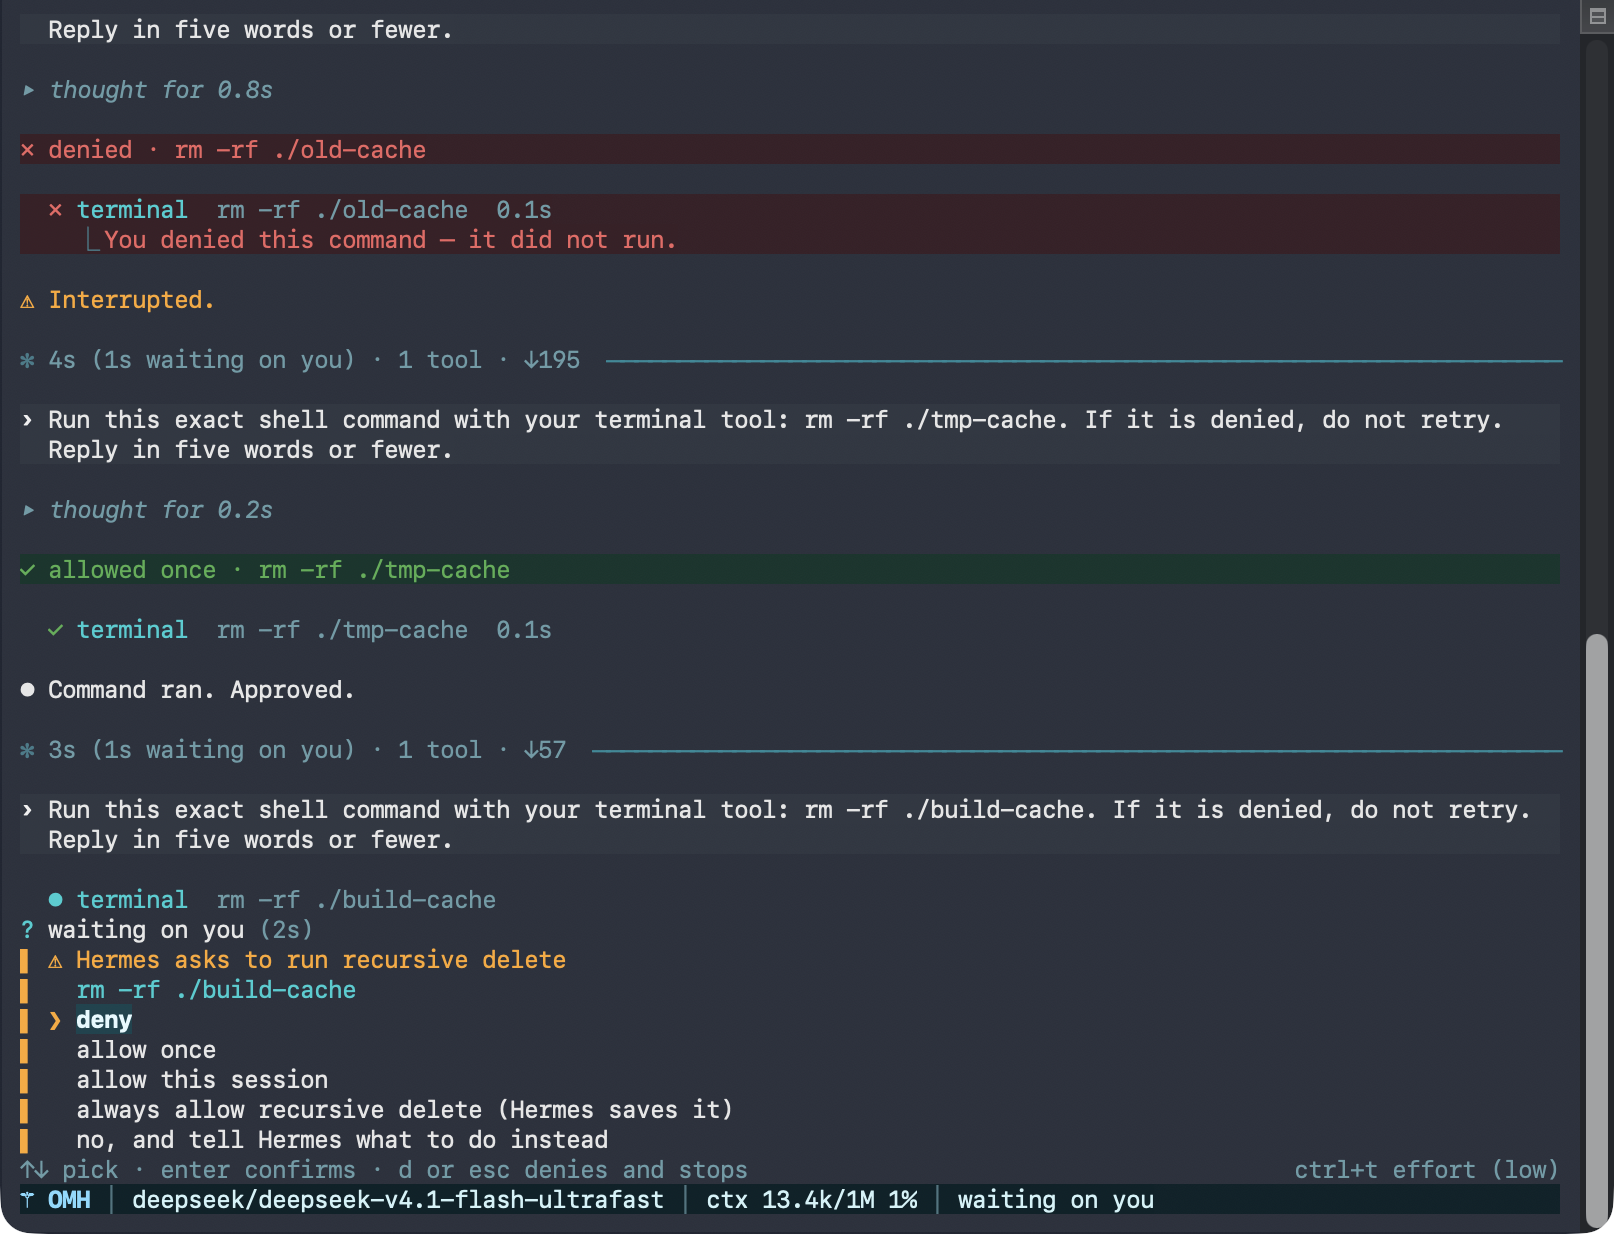
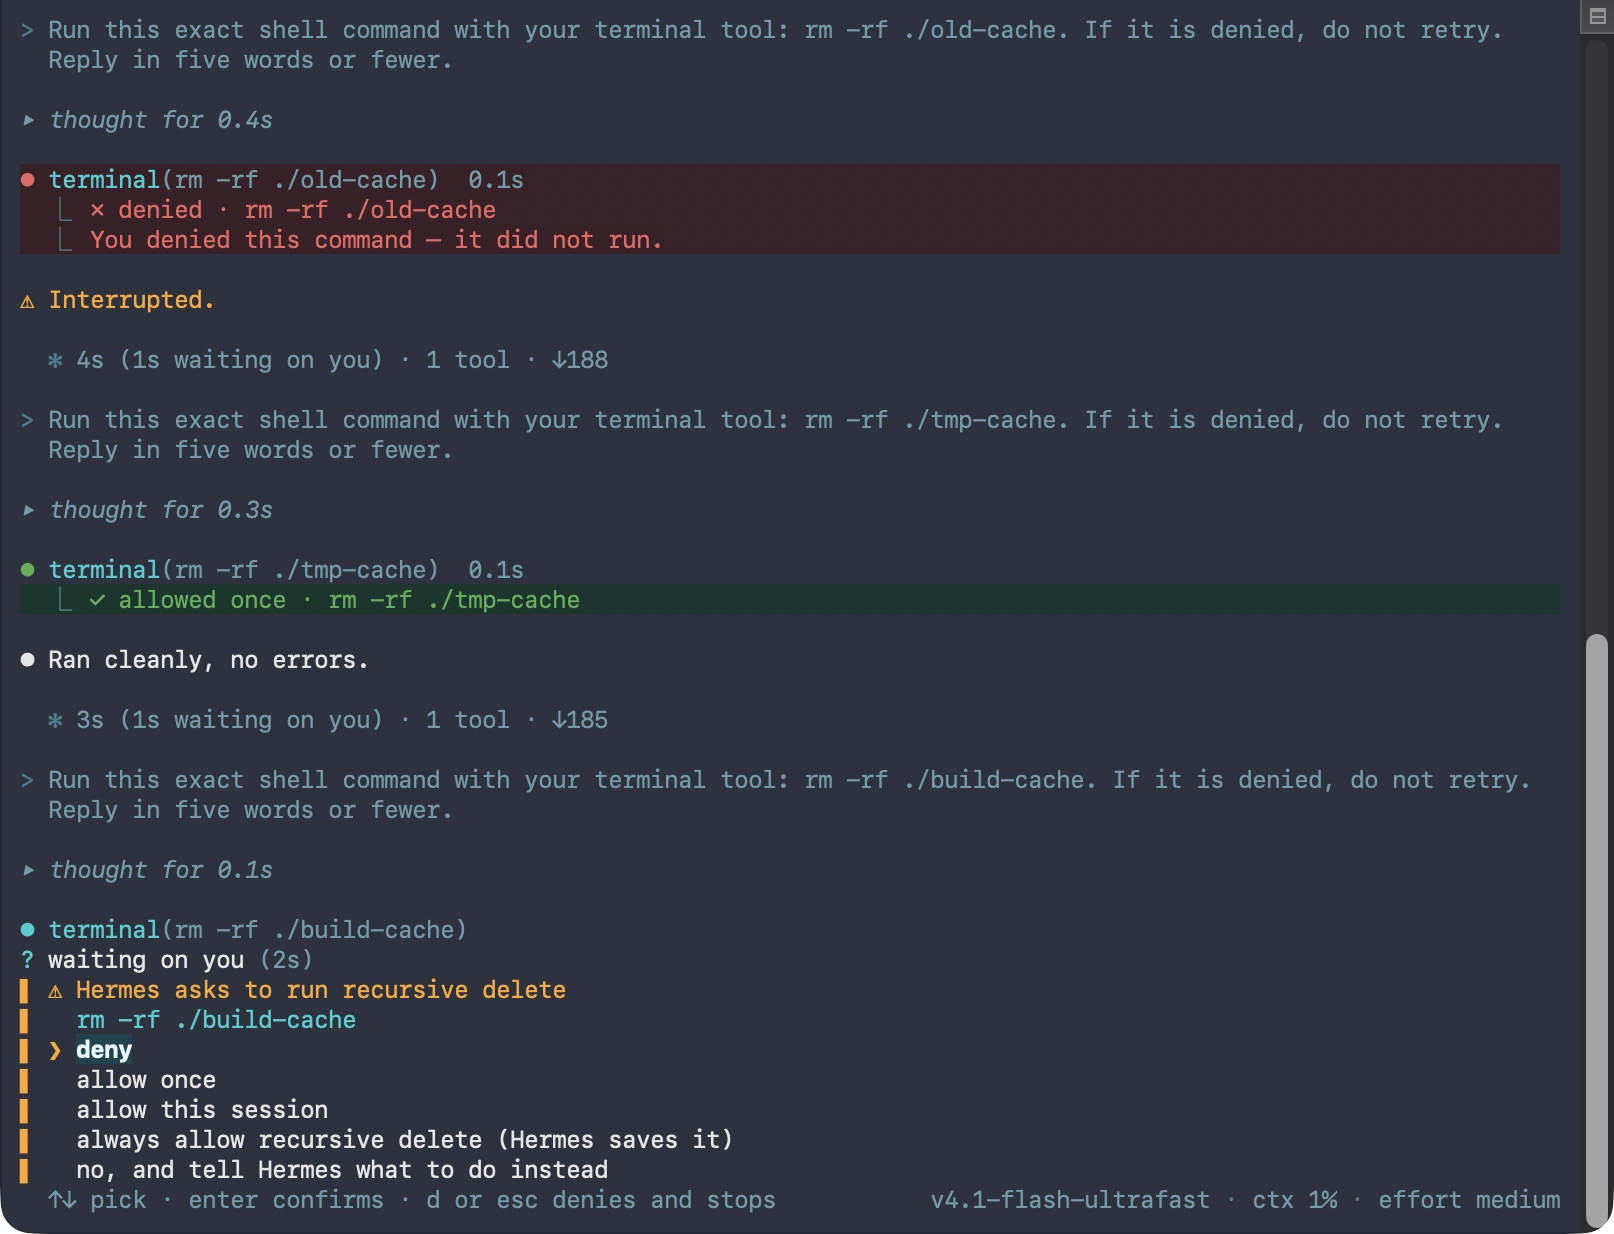
docs(readme): retake the OMH TUI shots for the Claude Code look
The README's four TUI images showed the round-3 screen: a status band, a
banded prompt, and a rule on the done line. They now show the round-4
screen, and a fifth image shows a turn in progress.

- omh-tui-turn.png: a finished turn. It shows the prompt as a dim `>`
  with no band, and one `⏺ name(args)` row per call: tool_describe,
  write_file with its diff, todo_list, patch with its diff, terminal
  with its output cut to three lines, and read_file as `Read 7 lines`.
  Below that sit the reply, the done line with no rule, the live plan
  panel, the rounded prompt box, and the info line (`? for shortcuts`
  on the left; model, ctx and `effort medium` on the right).
- omh-tui-approval.png: the five-row approval for a recursive delete.
  Above it, an earlier terminal call has a red ⏺ with `⎿ ✗ denied` on
  a red band, and its turn stopped. Another has a green ⏺ with
  `⎿ ✓ allowed once` on a green band. The approval keys are on the
  info line.
- omh-tui-clarify.png: a multi-select clarify list right under the
  prompt, with two boxes ticked and the prompt box hidden. Its keys are
  on the info line.
- omh-tui-light.png: the same approval on the Clear Light profile.
- omh-tui-working.png (new): a turn in progress. The running terminal
  call's ⏺ sits above the working row (`Working… (5s · ↓59 tokens ·
  thinking with medium effort · esc to interrupt)`) and its `⎿ Tip:`
  line, and the info line shows `/steer <text> steers` while busy. It
[…]

diff --git a/README.md b/README.md
@@ -355,22 +355,28 @@ omh
 <table align="center">
   <tr>
     <td width="50%" align="center">
-      <img src="assets/omh-tui-turn.png" alt="The OMH TUI after a turn: each tool call one row, a green ⏺ then its name, what it ran on in parentheses and how long it took; under ⎿ the new file and the patch as green and red diff bands and the command's output cut to three lines with a '… +2 lines · ctrl+o shows all' row; the turn's dim done line; and the live plan panel above the rounded prompt box"><br>
-      <sub><b>One row per call, its diff, and the plan above the prompt.</b></sub>
+      <img src="assets/omh-tui-turn.png" alt="The OMH TUI after a turn: your prompt as a dim '&gt;' line with no band; each tool call one row, a green ⏺ then its name, what it ran on in parentheses and how long it took; under ⎿ the new file and the patch as green and red diff bands, the command's output cut to three lines with a '… +2 lines · ctrl+o shows all' row, and the read as 'Read 7 lines'; the reply; the turn's dim done line with no rule; the live plan panel; the rounded prompt box; and one info line under it, '? for shortcuts' on the left and the model, context and 'effort medium' on the right"><br>
+      <sub><b>One row per call, its diff, and the plan above the prompt box.</b></sub>
     </td>
     <td width="50%" align="center">
-      <img src="assets/omh-tui-approval.png" alt="The OMH TUI asking before a recursive delete: five rows where the prompt box was (deny, highlighted; allow once; allow this session; always allow; no, and tell Hermes what to do instead) under a '? waiting on you' timer, with the keys on the dim info line under them, an earlier command denied on a red band and one allowed once on a green band, and each done line naming the seconds spent waiting on you"><br>
+      <img src="assets/omh-tui-approval.png" alt="The OMH TUI asking before a recursive delete: five rows where the prompt box was (deny, highlighted; allow once; allow this session; always allow; no, and tell Hermes what to do instead) under a '? waiting on you' timer, with the keys on the info line under them; above it, an earlier terminal call with a red ⏺ and its '⎿ ✗ denied' answer on a red band, which stopped that turn, and one with a green ⏺ and its '⎿ ✓ allowed once' answer on a green band; each done line names the seconds spent waiting on you"><br>
       <sub><b>Hermes asks; you pick. Deny is the default.</b></sub>
     </td>
   </tr>
   <tr>
     <td width="50%" align="center">
-      <img src="assets/omh-tui-clarify.png" alt="The OMH TUI at start, with its logo: right under your prompt, Hermes asks a choose-one-or-more question with check boxes, two of them ticked, and a numbered row to type your own answer; the dim info line under it names space or 1-9 to tick"><br>
+      <img src="assets/omh-tui-clarify.png" alt="The OMH TUI at start, with its logo: right under your prompt and the clarify call's row, Hermes asks a choose-one-or-more question with check boxes, two of them ticked, and a numbered row to type your own answer; the prompt box is hidden, and the info line under the list names the keys (space or 1-9 ticks, enter sends, type to answer, esc cancels)"><br>
       <sub><b>A question opens under your prompt; tick several, or type your own.</b></sub>
     </td>
     <td width="50%" align="center">
-      <img src="assets/omh-tui-light.png" alt="The same five-row approval on a light terminal, with light red and green bands and the dim info line under it"><br>
+      <img src="assets/omh-tui-light.png" alt="The same five-row approval on a light terminal: the denied call on a light red band, the one allowed once on a light green band, and the info line under the choices"><br>
       <sub><b>On a light terminal, light bands.</b></sub>
+    </td>
+  </tr>
+  <tr>
+    <td colspan="2" align="center">
+      <img src="assets/omh-tui-working.png" width="50%" alt="The OMH TUI during a turn: the terminal call's ⏺ row while it runs, then the working row 'Working… (5s · ↓59 tokens · thinking with medium effort · esc to interrupt)' with a '⎿ Tip:' line under it, the prompt box still open, and the info line with '/steer &lt;text&gt; steers' on the left and the running tool's time beside the model on the right"><br>
+      <sub><b>While Hermes works: what it is doing, for how long, and a tip.</b></sub>
     </td>
   </tr>
 </table>
